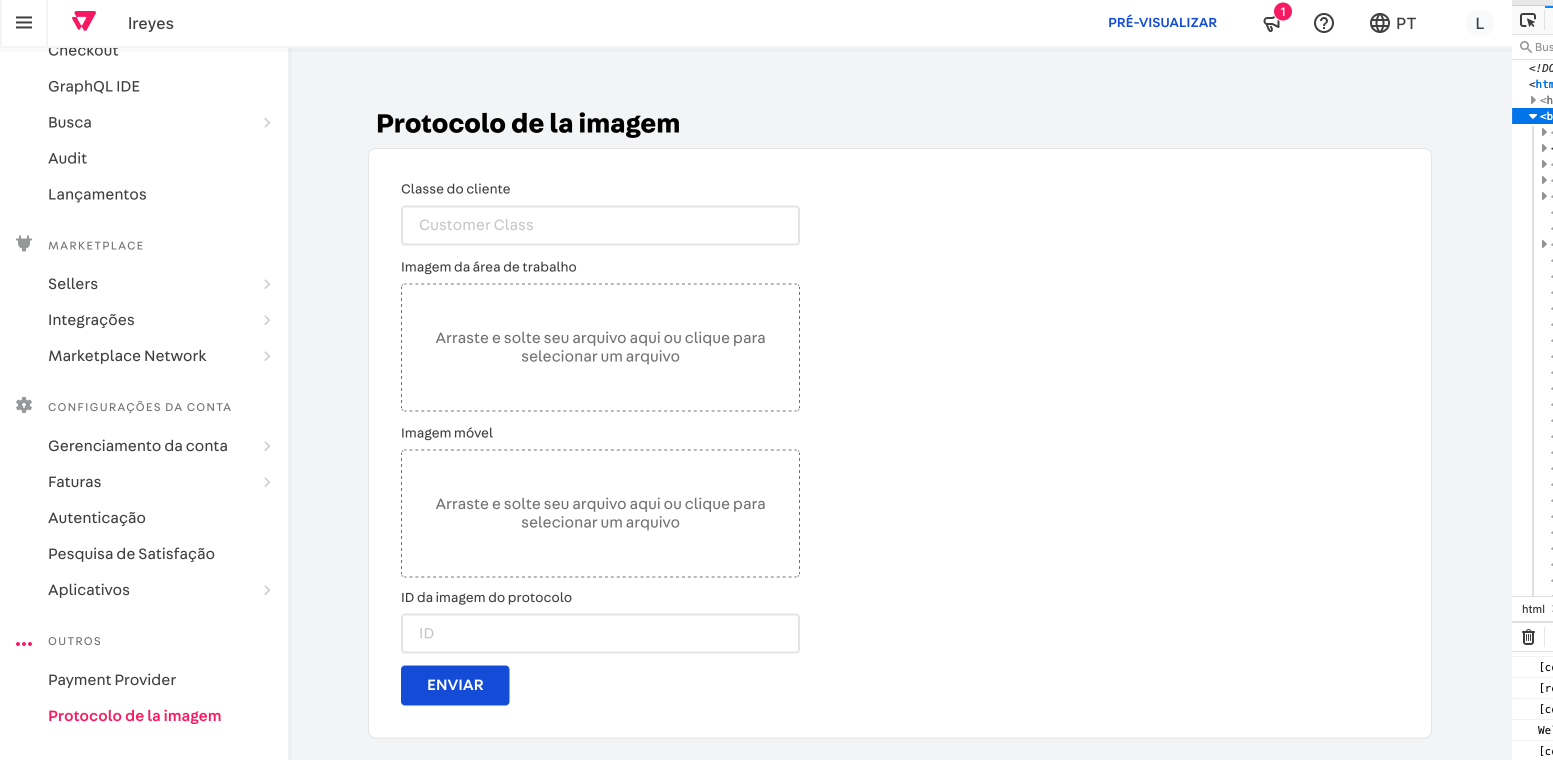
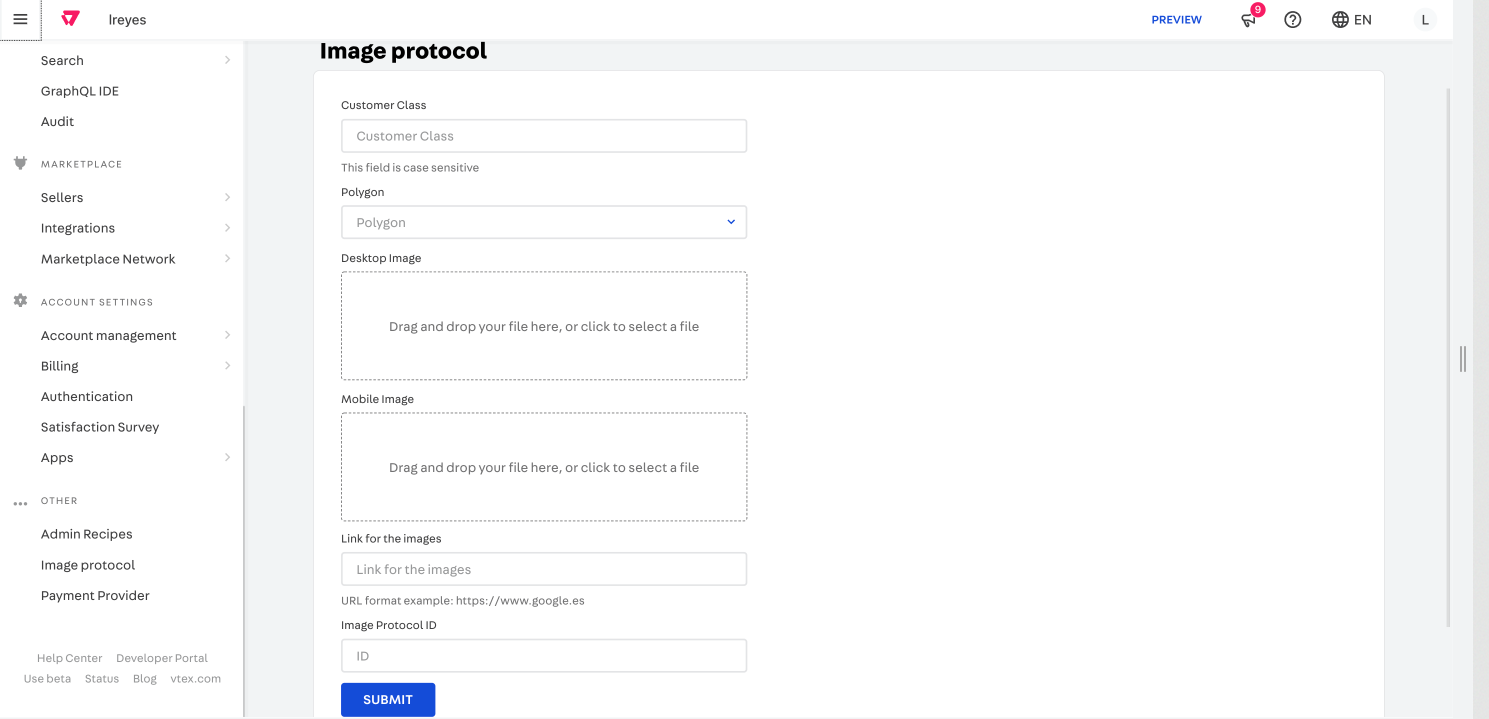
readme updated

diff --git a/docs/README.md b/docs/README.md
@@ -31,21 +31,27 @@ mutation($file: Upload!) {
 - The second one related to saving data in vbase
 
 ```graphql
-mutation(
+mutation saveDataInfo(
   $customerClassValue: String
+  $polygon: String
   $url: String
   $urlMobile: String
+  $hrefImg: String
   $idImg: String
 ) {
-  customerClassInfo(
+  saveDataInfo(
     customerClassValue: $customerClassValue
+    polygon: $polygon
     url: $url
     urlMobile: $urlMobile
+    hrefImg: $hrefImg
     idImg: $idImg
   ) {
     customerClassValue
+    polygon
     url
     urlMobile
+    hrefImg
     idImg
   }
 }
@@ -56,8 +62,10 @@ Query variables:
 ```json
 {
   "customerClassValue": "test",
-  "url": "some url",
-  "urlMobile": "some url",
+  "polygon": "test",
+  "url": "url",
+  "urlMobile": "url",
+  "hrefImg": "url",
   "idImg": "banner"
 }
 ```
@@ -73,7 +81,8 @@ After doing that, you will receive a response similar to this one:
 ```json
 {
   "url": "https://lreyes.vtexassets.com/assets/vtex.file-manager-graphql/images/261f8852-22b6-4048-b688-37a7d61ddd48___200c03de6f2e80dc23434cff4caf7f9a.jpeg",
-  "urlMobile": "https://lreyes.vtexassets.com/assets/vtex.file-manager-graphql/images/0500ef76-eaf4-4b6c-bd01-08e69c4e4744___a3cf5c6525b1c13fdf06eb4a256f958d.jpg"
+  "urlMobile": "https://lreyes.vtexassets.com/assets/vtex.file-manager-graphql/images/0500ef76-eaf4-4b6c-bd01-08e69c4e4744___a3cf5c6525b1c13fdf06eb4a256f958d.jpg",
+  "hrefImg": "https://www.unsplash.com/es"
 }
 ```
 
